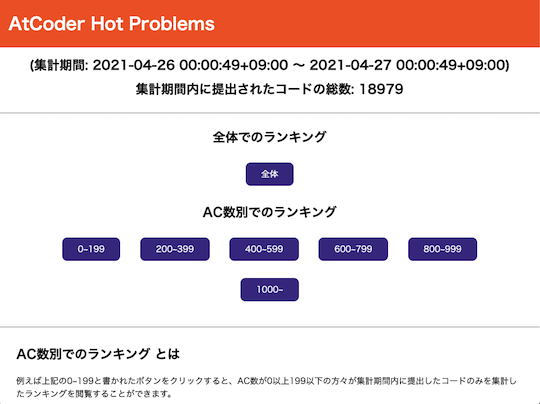
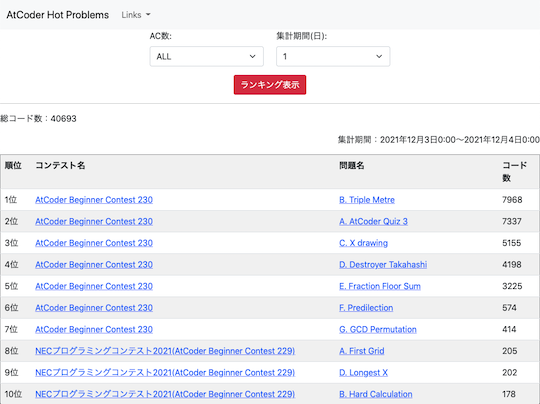
:bookmark: Update web app (#3097)

diff --git a/monthly_changelog/2021_03.md b/monthly_changelog/2021_03.md
@@ -131,7 +131,7 @@
 - [#1634](https://github.com/KATO-Hiro/AtCoderClans/pull/1634) - ライブラリ「[AtCoder Library (ACL)](https://atcoder.jp/posts/517)」の説明に、最新バーションとAtCoderにインストールされているバージョンが異なる可能性があることを明記([出典](https://atcoder.github.io/ac-library/master/document_ja/))。
 - [#1633](https://github.com/KATO-Hiro/AtCoderClans/pull/1633) - 「YouTube」ページに、VTuberのチャンネルを追加。
   - [ななみつき](https://www.youtube.com/playlist?list=PLKs3DZp2szRMAHKnNg2ZlIhW9uXfBQg6a)
-- [#1632](https://github.com/KATO-Hiro/AtCoderClans/pull/1632) - [G4NP0N_kyopro](https://twitter.com/G4NP0N_kyopro)さんのご紹介で、Webアプリ「[AtCoder Hot Problems](https://hot-problems.herokuapp.com/)」を追加。
+- [#1632](https://github.com/KATO-Hiro/AtCoderClans/pull/1632) - [G4NP0N_kyopro](https://twitter.com/G4NP0N_kyopro)さんのご紹介で、Webアプリ「[AtCoder Hot Problems](https://new-hot-problems.herokuapp.com/ranking/)」を追加。
 
 ### 2021-03-07
 

diff --git a/web_app.md b/web_app.md
@@ -280,7 +280,7 @@ filename: web_app
     <img loading = "lazy" src="images/web_app/atcoder_games.png" alt="atcoder games">
   </div>
 
-- [AtCoder Hot Problems](https://hot-problems.herokuapp.com/) - 1日あたりの問題別提出数を集計し、上位100問を表示する。
+- [AtCoder Hot Problems](https://new-hot-problems.herokuapp.com/ranking/) - 任意の期間(1〜30日)における問題別の提出数を集計し、上位100問を表示する。
 
   <div align="center">
     <img loading = "lazy" src="images/web_app/atcoder_hot_problems.png" alt="atcoder hot problems">
